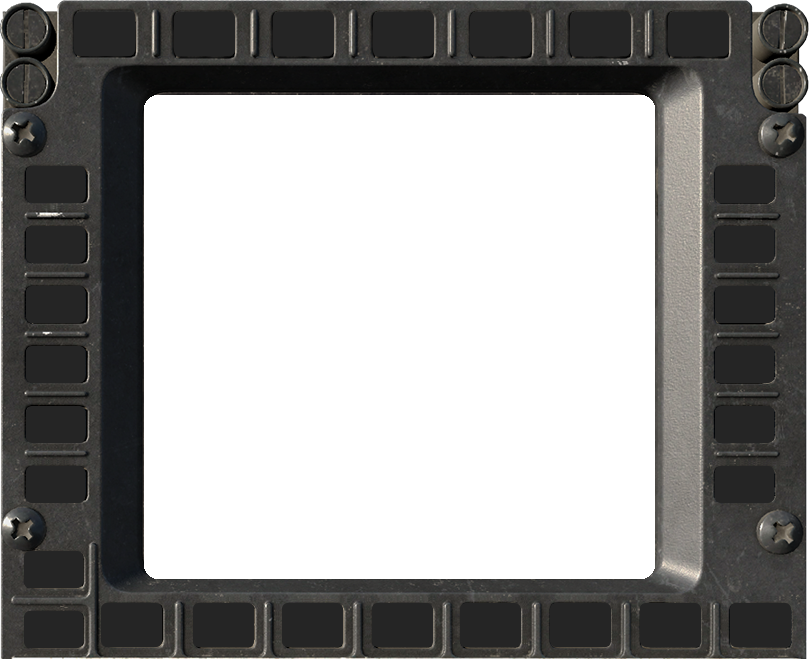
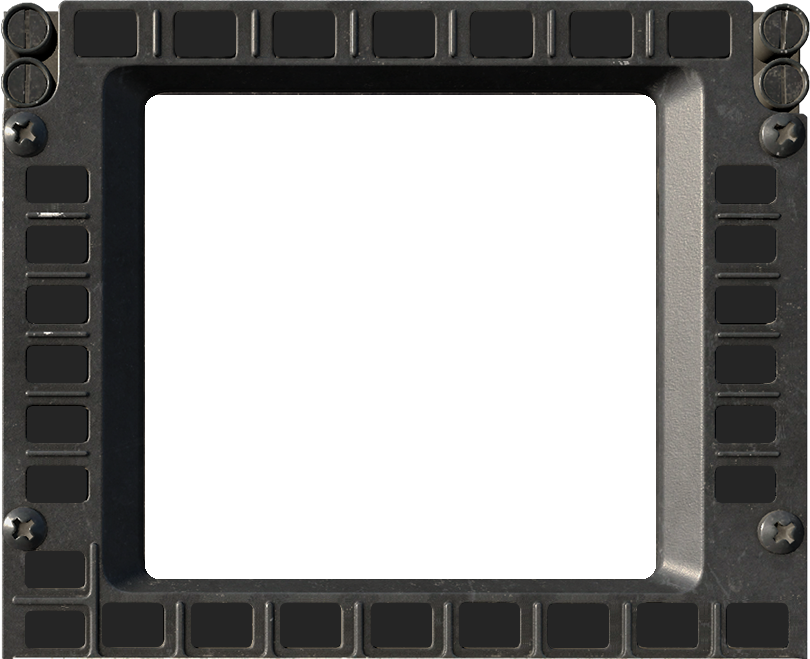
Minor adjustments to the artwork for the CH-47F CDU to allow some buttons to be better aligned. Fix for calibrations being incorrectly defined without max values.Chinook RadAlt, and F-16 Fuel Gauge fixed, and changes made to Chinook, Strike Eagle and Viper DCS interfaces.

diff --git a/Aircraft F-16C Plugin/Interfaces/F-16CInterface.cs b/Aircraft F-16C Plugin/Interfaces/F-16CInterface.cs
@@ -463,7 +463,7 @@ namespace GadrocsWorkshop.Helios.Interfaces.DCS.F16C
             #endregion ECM
 
             AddFunction(new Switch(this, "0", "699", new SwitchPosition[] { new SwitchPosition("1.0", "Open", "0000"), new SwitchPosition("0.0", "Closed", "0000") }, "Nuclear", "Nuclear Consent Cover", "%0.1f"));  //unused
-            AddFunction(new Switch(this, "0", "700", SwitchPositions.Create(3, 1.0d, -1.0d, "0000", "Posn", "%0.1f"), "Nuclear", "Nuclear Consewt switch", "%0.1f"));  //unused
+            AddFunction(new Switch(this, "0", "700", SwitchPositions.Create(3, 1.0d, -1.0d, "0000", "Posn", "%0.1f"), "Nuclear", "Nuclear Consent switch", "%0.1f"));  //unused
 
             AddFunction(new NetworkValue(this, "13", "Network Value", "ADI_LOC_flag", "Float values from DCS", "", BindingValueUnits.Numeric, null));
             AddFunction(new NetworkValue(this, "14", "Network Value", "ADI_AUX_flag", "Float values from DCS", "", BindingValueUnits.Numeric, null));
@@ -475,11 +475,9 @@ namespace GadrocsWorkshop.Helios.Interfaces.DCS.F16C
                     new CalibrationPointDouble(35.0, 1.0)
                 }, "Network Value", "AOA", "Float values from DCS", "", BindingValueUnits.Numeric, null));
             AddFunction(new ScaledNetworkValue(this, "16", 
-                new CalibrationPointCollectionDouble(){
-                    new CalibrationPointDouble(-7750.0, -1.0),
+                new CalibrationPointCollectionDouble(-7750.0, -1.0, 6000.0, 1.0){
                     new CalibrationPointDouble(-6000.0, -0.77),
-                    new CalibrationPointDouble(0.0, 0.0),
-                    new CalibrationPointDouble(6000.0, 1.0),
+                    new CalibrationPointDouble(0.0, 0.0)
                 }, "Network Value", "VVI", "Float values from DCS", "", BindingValueUnits.Numeric, null));
             AddFunction(new NetworkValue(this, "17", "Network Value", "ADI_Pitch", "Float values from DCS", "", BindingValueUnits.Numeric, null));
             AddFunction(new NetworkValue(this, "18", "Network Value", "ADI_Bank", "Float values from DCS", "", BindingValueUnits.Numeric, null));
@@ -491,8 +489,7 @@ namespace GadrocsWorkshop.Helios.Interfaces.DCS.F16C
             AddFunction(new NetworkValue(this, "26", "Network Value", "ADI_GS_flag", "Float values from DCS", "", BindingValueUnits.Numeric, null));
             AddFunction(new NetworkValue(this, "27", "Network Value", "ADI_GS_Pointer", "Float values from DCS", "", BindingValueUnits.Numeric, null));
             AddFunction(new ScaledNetworkValue(this, "47", 
-                new CalibrationPointCollectionDouble(){
-                    new CalibrationPointDouble(0.0,     0.000),
+                new CalibrationPointCollectionDouble(0d, 0d, 0.85, 0.850){
                     new CalibrationPointDouble(0.06,    0.042),
                     new CalibrationPointDouble(0.085,   0.095),
                     new CalibrationPointDouble(0.22,    0.152),
@@ -509,8 +506,7 @@ namespace GadrocsWorkshop.Helios.Interfaces.DCS.F16C
                     new CalibrationPointDouble(0.74,    0.653),
                     new CalibrationPointDouble(0.77,    0.698),
                     new CalibrationPointDouble(0.8,     0.750),
-                    new CalibrationPointDouble(0.83,    0.797),
-                    new CalibrationPointDouble(0.85,    0.850)
+                    new CalibrationPointDouble(0.83,    0.797)
                 }, "Network Value", "MaxAirspeed", "Float values from DCS", "", BindingValueUnits.Numeric, null));
             AddFunction(new NetworkValue(this, "51", "Network Value", "Altimeter_100_footPtr", "Float values from DCS", "", BindingValueUnits.Numeric, null));
             AddFunction(new NetworkValue(this, "52", "Network Value", "Altimeter_10000_footCount", "Float values from DCS", "", BindingValueUnits.Numeric, null));
@@ -561,15 +557,13 @@ namespace GadrocsWorkshop.Helios.Interfaces.DCS.F16C
             AddFunction(new NetworkValue(this, "623", "Network Value", "CLOCK_elapsed_time_minutes", "Float values from DCS", "", BindingValueUnits.Numeric, null));
             AddFunction(new NetworkValue(this, "624", "Network Value", "CLOCK_elapsed_time_seconds", "Float values from DCS", "", BindingValueUnits.Numeric, null));
             AddFunction(new ScaledNetworkValue(this, "692", 
-                new CalibrationPointCollectionDouble(){
-                    new CalibrationPointDouble(0.0,     -0.3),
+                new CalibrationPointCollectionDouble(0.0, -0.3, 1.0, 1.0){
                     new CalibrationPointDouble(0.23,    -0.2),
                     new CalibrationPointDouble(0.455,   -0.1),
                     new CalibrationPointDouble(0.5,    0.0),
                     new CalibrationPointDouble(0.6,    0.1),
                     new CalibrationPointDouble(0.76,    0.2),
-                    new CalibrationPointDouble(1.0,    0.3),
-                    new CalibrationPointDouble(1.0,   1.0),
+                    new CalibrationPointDouble(1.0,    0.3)
                 }, "Network Value", "air cond axis", "Float values from DCS", "", BindingValueUnits.Numeric, null));
             AddFunction(new NetworkValue(this, "712", "Network Value", "CanopyHandle", "Float values from DCS", "", BindingValueUnits.Numeric, null));
             AddFunction(new NetworkValue(this, "725", "Network Value", "FlowIndicator", "Float values from DCS", "", BindingValueUnits.Numeric, null));

diff --git a/Aircraft CH-47F Plugin/Interfaces/CH-47FInterface.cs b/Aircraft CH-47F Plugin/Interfaces/CH-47FInterface.cs
@@ -461,17 +461,15 @@ namespace GadrocsWorkshop.Helios.Interfaces.DCS.CH47F
             #region Instruments
             #region Free Air Temp
             // This is the Calibration from the CH-47F Clickabvles
-            AddFunction(new ScaledNetworkValue(this, "1211", new CalibrationPointCollectionDouble()
+            AddFunction(new ScaledNetworkValue(this, "1211", new CalibrationPointCollectionDouble(0.0d, -70d, 1.0d, 50d)
                 {
-                new CalibrationPointDouble(0.0d, -70d),
                 new CalibrationPointDouble(0.152d, -50d),
                 new CalibrationPointDouble(0.314d, -30d),
                 new CalibrationPointDouble(0.482d, -10d),
                 new CalibrationPointDouble(0.567d, 0d),
                 new CalibrationPointDouble(0.651d, 10d),
                 new CalibrationPointDouble(0.738d, 20d),
-                new CalibrationPointDouble(0.825d, 30d),
-                new CalibrationPointDouble(1.0d  , 50d),
+                new CalibrationPointDouble(0.825d, 30d)
                 }, "Temperature Gauge", "Free Air Temperature", "Current Free Air Temperature.", "", BindingValueUnits.Celsius, "%.4f"));
             #endregion
             #region Rad Alt
@@ -481,11 +479,9 @@ namespace GadrocsWorkshop.Helios.Interfaces.DCS.CH47F
             AddFunction(new Axis(this, devices.APN_209.ToString("d"), Commands.Button.Button_1.ToString("d"), "1194", 0.1d, 0d, 1d, "RADAR Alt", "High Altitude Set"));
             AddFunction(new PushButton(this, devices.APN_209.ToString("d"), Commands.Button.Button_3.ToString("d"), "1195", "RADAR Alt", "Test"));
 
-            CalibrationPointCollectionDouble needleCalibration = new CalibrationPointCollectionDouble()
+            CalibrationPointCollectionDouble needleCalibration = new CalibrationPointCollectionDouble(-0.02d, -90d, 1.0d, 270.0d)
                 {
-                new CalibrationPointDouble(-0.02d,  -90d),
                 new CalibrationPointDouble(0.0d,   0.0d),
-                new CalibrationPointDouble(1.0d, 270.0d),
                 };
 
             AddFunction(new ScaledNetworkValue(this, "1191", needleCalibration, "RADAR Alt", "Altitude Needle", "0 to 270", "degrees of rotation", BindingValueUnits.Degrees));
@@ -606,11 +602,7 @@ namespace GadrocsWorkshop.Helios.Interfaces.DCS.CH47F
             AddFunction(new PushButton(this, devices.CANTED_CONSOLE.ToString("d"), Commands.Button.Button_9.ToString("d"), "724", "Canted Console", "Main Battery Low Button", "%.1f"));
             AddFunction(new Axis(this, devices.CANTED_CONSOLE.ToString("d"), Commands.Button.Button_10.ToString("d"), "725", 0.1d, 0.0d, 1.0d, "Canted Console", "Main Battery Low Knob"));
             AddFunction(new FlagValue(this, "723", "Canted Console", "Battery Low Indicator", ""));
-            AddFunction(new ScaledNetworkValue(this, "1460", new CalibrationPointCollectionDouble()
-                {
-                new CalibrationPointDouble(0.0d, -8d),
-                new CalibrationPointDouble(1.0d,  8d)
-                }, "Canted Console", "Longitudinal Stick Position Indicator", "longitudinal position", "-8 to +8 Degrees", BindingValueUnits.Degrees, true));
+            AddFunction(new ScaledNetworkValue(this, "1460", new CalibrationPointCollectionDouble(0.0d, -8d, 1.0d, 8d), "Canted Console", "Longitudinal Stick Position Indicator", "longitudinal position", "-8 to +8 Degrees", BindingValueUnits.Degrees, true));
 
             AddFunction(new Axis(this, devices.CANTED_CONSOLE.ToString("d"), Commands.Button.Button_16.ToString("d"), "739", 0.1d, 0.0d, 1.0d, "Canted Console", "Main RadAlt Dimmer"));  // elements["MAIN_RALT_DIMMER"] =              axis_limited({0, 1}, _("Cockpit.CH47.ralt_dimmer"),       devices.CANTED_CONSOLE, device_commands.Button_16, 739)
             AddFunction(new PushButton(this, devices.TERTIARY_REFLECTS.ToString("d"), Commands.Button.Button_1.ToString("d"), "1209", "M880 Chronometer", "Select Button", "%.1f"));  // elements["M880_SEL"] =       button({0, 1}, _("Cockpit.Generic.clock_select_btn"),  devices.TERTIARY_REFLECTS, device_commands.Button_1, 1209, {{SOUND_SW07_OFF, SOUND_SW07_ON}})

diff --git a/Aircraft F-15E Plugin/Interfaces/F15EInterface.cs b/Aircraft F-15E Plugin/Interfaces/F15EInterface.cs
@@ -174,16 +174,12 @@ namespace GadrocsWorkshop.Helios.Interfaces.DCS.F15E
             AddFunction(new ScaledNetworkValue(this, "348", new CalibrationPointCollectionDouble(-1d, -180d, 1d, 180d), "Flight Instruments", "ADI Aircraft Bank Angle", "Backup ADI angle of the aircraft in degrees", "0 to +360", BindingValueUnits.Degrees, "%.3f"));
             AddFunction(new NetworkValue(this, "347", "Flight Instruments", "ADI Off Flag", "rotational position of the OFF flag","", BindingValueUnits.Numeric, "%.1f"));
             AddFunction(new ScaledNetworkValue(this, "345", new CalibrationPointCollectionDouble(0.0d, 0.0d, 1.0d, 1000d), "Flight Instruments", "IAS Airspeed", "Current indicated air speed of the aircraft.", "", BindingValueUnits.Knots, "%.3f"));
-            AddFunction(new ScaledNetworkValue(this, "362", new CalibrationPointCollectionDouble()
+            AddFunction(new ScaledNetworkValue(this, "362", new CalibrationPointCollectionDouble(-0.6d, -6000d, 0.6d, 6000d)
                 {
-                new CalibrationPointDouble(-0.6d, -6000d),
-                new CalibrationPointDouble(0.0d, 0.0d),
-                new CalibrationPointDouble(0.6d, 6000d),
+                new CalibrationPointDouble(0.0d, 0.0d)
                 }, "Flight Instruments", "Vertical Velocity", "Vertical velocity indicator -6000 to +6000.", "", BindingValueUnits.FeetPerMinute, "%.3f"));
-            AddFunction(new ScaledNetworkValue(this, "346", new CalibrationPointCollectionDouble() {
-                new CalibrationPointDouble(-0.05d, -5d),
-                new CalibrationPointDouble(0d, 0d),
-                new CalibrationPointDouble(0.5d, 50d)
+            AddFunction(new ScaledNetworkValue(this, "346", new CalibrationPointCollectionDouble(-0.05d, -5d, 0.5d, 50d) {
+                new CalibrationPointDouble(0d, 0d)
                 }, "Flight Instruments", "Angle of Attack", "Current angle of attack of the aircraft.", "", BindingValueUnits.Degrees, "%.3f"));
             //AddFunction(new FlagValue(this, "", "Flight Instruments", "AOA Flag", "Off Flag"));
             AddFunction(new Axis(this, devices.FLINST.ToString("d"), Commands.fltinst_commands.clk_adj_knob.ToString("d"), "366", 0.1d, 0.0d, 1.0d, "Clock (Pilot)", "Clock Adjust", false, "%.1f"));
@@ -558,11 +554,9 @@ namespace GadrocsWorkshop.Helios.Interfaces.DCS.F15E
             AddFunction(new ScaledNetworkValue(this, "1379", new CalibrationPointCollectionDouble(0d, 0d, 1.0d, 60d), "Clock (WSO)", "Clock Seconds", "Current seconds value of the clock", "0-60", BindingValueUnits.Seconds, "%.2f"));
             AddFunction(new ScaledNetworkValue(this, "1349", new CalibrationPointCollectionDouble(0d, 0d, 1.0d, 50000d), "Flight Instruments (WSO)", "Cabin Pressure", "Current cabin pressure in feet", "0 - 50,000", BindingValueUnits.Feet, "%.3f"));
             AddFunction(new ScaledNetworkValue(this, "1350", new CalibrationPointCollectionDouble(0.0d, 0.0d, 1.0d, 1000d), "Flight Instruments (WSO)", "IAS Airspeed", "Current indicated air speed of the aircraft.", "", BindingValueUnits.Knots, "%.3f"));
-            AddFunction(new ScaledNetworkValue(this, "1365", new CalibrationPointCollectionDouble()
+            AddFunction(new ScaledNetworkValue(this, "1365", new CalibrationPointCollectionDouble(-0.6d, -6000d, 0.6d, 6000d)
                 {
-                new CalibrationPointDouble(-0.6d, -6000d),
-                new CalibrationPointDouble(0.0d, 0.0d),
-                new CalibrationPointDouble(0.6d, 6000d),
+                new CalibrationPointDouble(0.0d, 0.0d)
                 }, "Flight Instruments (WSO)", "Vertical Velocity", "Vertical velocity indicator -6000 to +6000.", "", BindingValueUnits.FeetPerMinute, "%.3f"));
             AddFunction(new Functions.Altimeter(this, "Flight Instruments (WSO)", Cockpit.WSO));
             AddFunction(new RotaryEncoder(this, devices.FLINST.ToString("d"), Commands.fltinst_commands.rc_alt_adj_knob.ToString("d"), "1364", 0.1d, "Flight Instruments (WSO)", "Altitude adjust"));

diff --git a/Aircraft CH-47F Plugin/Gauges/RadAlt/RadAltInstrument.cs b/Aircraft CH-47F Plugin/Gauges/RadAlt/RadAltInstrument.cs
@@ -73,8 +73,7 @@ namespace GadrocsWorkshop.Helios.Gauges.CH47F.Instruments
             Values.Add(_offIndicator);
             Actions.Add(_offIndicator);
 
-            _needleCalibration = new CalibrationPointCollectionDouble(){
-                new CalibrationPointDouble(-200d, -90d),
+            _needleCalibration = new CalibrationPointCollectionDouble(-200d, -90d, 1500d, (1.0d * 270d)){
                 new CalibrationPointDouble(-1d, -90d),
                 new CalibrationPointDouble(0d, 0.0d * 270d),
                 new CalibrationPointDouble(50d, 0.156d * 270d),
@@ -83,12 +82,8 @@ namespace GadrocsWorkshop.Helios.Gauges.CH47F.Instruments
                 new CalibrationPointDouble(200d, 0.666d * 270d),
                 new CalibrationPointDouble(500d, 0.744d * 270d),
                 new CalibrationPointDouble(1000d, 0.862d * 270d),
-                new CalibrationPointDouble(1500d, 1.0d * 270d),
             };
-            _needleCalibration1 = new CalibrationPointCollectionDouble(){
-                new CalibrationPointDouble(0d, 0d),
-                new CalibrationPointDouble(1d, 270d),
-            };
+            _needleCalibration1 = new CalibrationPointCollectionDouble(0d, 0d, 1d, 270d);
 
             _loNeedle = new GaugeNeedle("{UH-60L}/Images/RadAltBugLo.xaml", new Point(210d, 210d), new Size(21d, 26d), new Point(23d, 210d), 183d);
             Components.Add(_loNeedle);

diff --git a/Aircraft F-16C Plugin/Gauges/Instruments/Fuel-Gauge-BLK50.cs b/Aircraft F-16C Plugin/Gauges/Instruments/Fuel-Gauge-BLK50.cs
@@ -51,11 +51,9 @@ namespace GadrocsWorkshop.Helios.Gauges.F16C.Instruments
             _drumHundreds.Clip = new RectangleGeometry(new Rect(178.4d, 258d, 81.6, 35d));
             Components.Add(_drumHundreds);
 
-            _needleCalibration = new CalibrationPointCollectionDouble()
+            _needleCalibration = new CalibrationPointCollectionDouble(0d, 0d, 5000d, 252d)
                 {
-                new CalibrationPointDouble(0d, 0d),
-                new CalibrationPointDouble(4200d, 252d),
-                new CalibrationPointDouble(5000d, 252d)
+                new CalibrationPointDouble(4200d, 252d)
                 };
 
             _needleAL = new GaugeNeedle("{F-16C}/Gauges/Instruments/Viper-Fuel-Needle-AL.xaml", new Point(184.500d, 185.000d), new Size(74.667d, 196.535d), new Point(37.668d, 159.573d), 360d - 127d);
